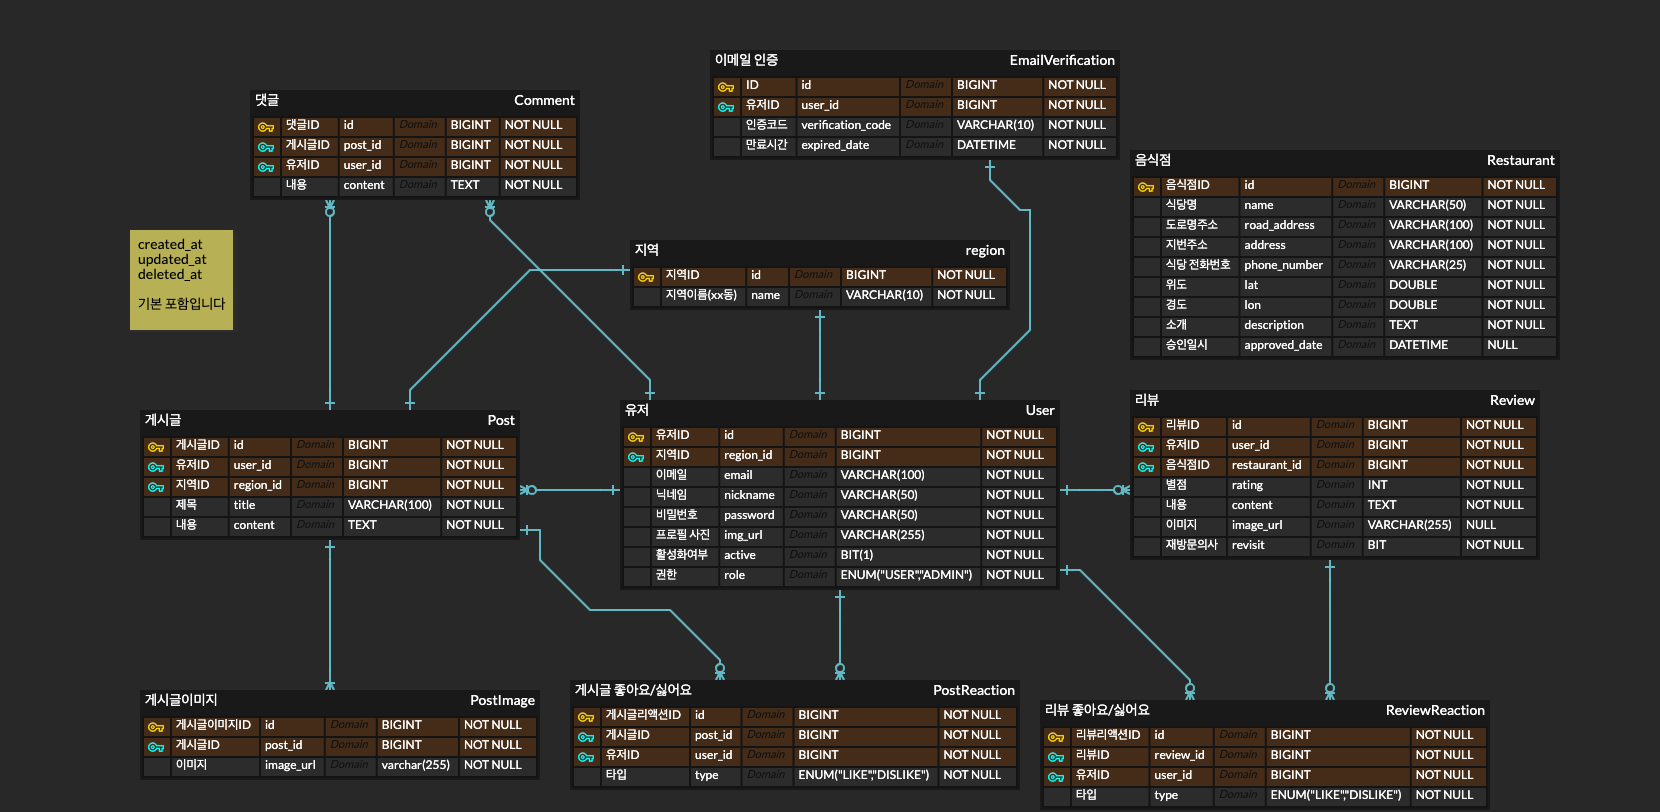
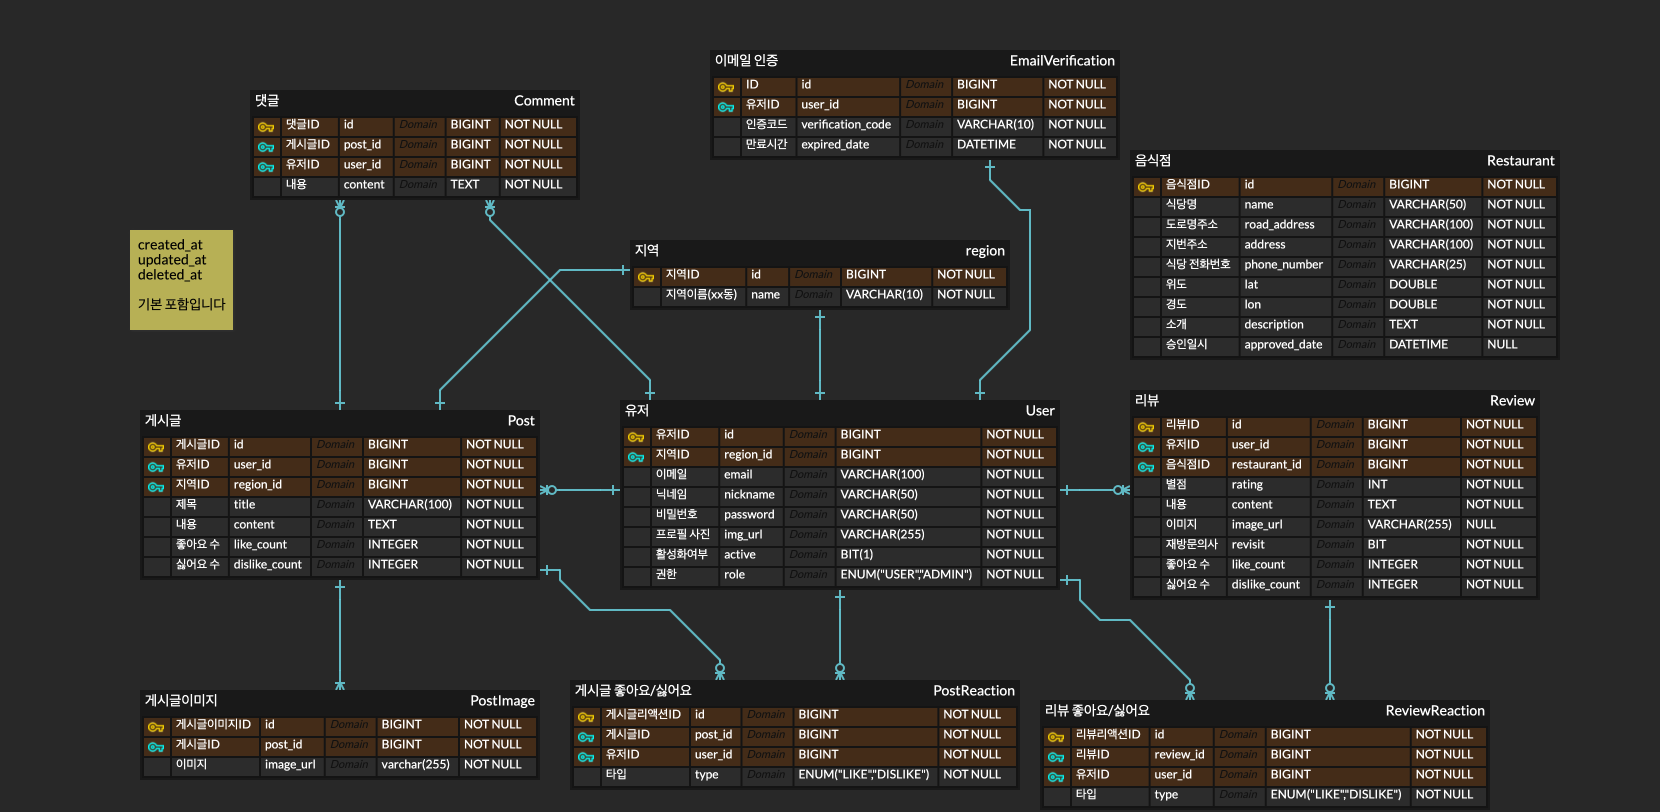
feat: post,review entity에 like_count, dislike_count 컬럼 추가 (#12)

diff --git a/src/main/java/matgo/post/domain/entity/Post.java b/src/main/java/matgo/post/domain/entity/Post.java
@@ -39,6 +39,12 @@ public class Post extends BaseEntity {
     @Column(name = "content", nullable = false)
     private String content;
 
+    @Column(name = "like_count", nullable = false, columnDefinition = "int default 0")
+    private int likeCount;
+
+    @Column(name = "dislike_count", nullable = false, columnDefinition = "int default 0")
+    private int dislikeCount;
+
     @OneToOne(fetch = FetchType.LAZY)
     @JoinColumn(name = "region_id", foreignKey = @ForeignKey(name = "fk_post_region"), nullable = false)
     private Region region;

diff --git a/src/main/java/matgo/review/domain/entity/Review.java b/src/main/java/matgo/review/domain/entity/Review.java
@@ -47,6 +47,12 @@ public class Review extends BaseEntity {
     @Column(name = "revisit", nullable = false)
     private boolean revisit;
 
+    @Column(name = "like_count", nullable = false, columnDefinition = "int default 0")
+    private int likeCount;
+
+    @Column(name = "dislike_count", nullable = false, columnDefinition = "int default 0")
+    private int dislikeCount;
+
     @OneToMany(mappedBy = "review")
     private List<ReviewReaction> reviewReactions = new ArrayList<>();
 
